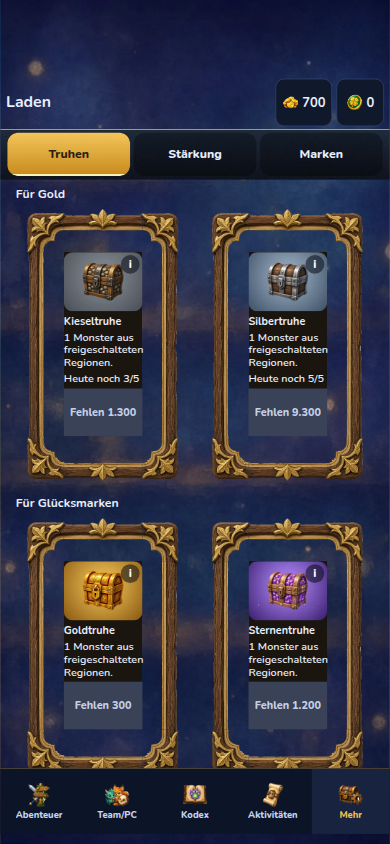
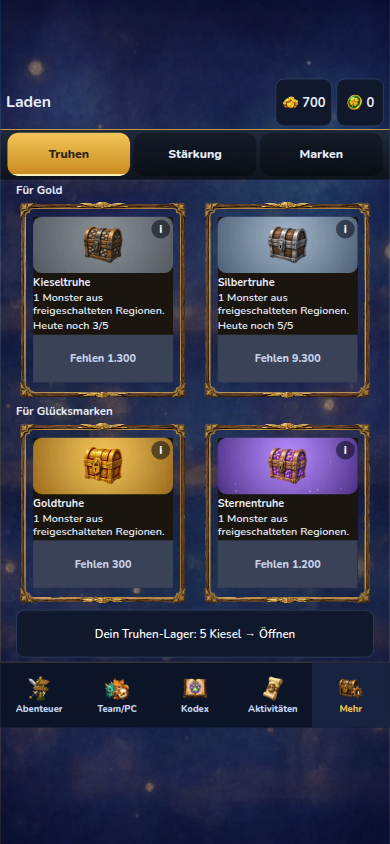
Laden: Kartenrahmen auf 35 Prozent der Slice-Ränder zeichnen.
Bild, Text und Kaufknopf nutzen etwa 81 Prozent der Kartenbreite, und die vier Truhen bleiben auf 390×844 ohne Scrollen sichtbar.

diff --git a/src/adventure/adventure.css b/src/adventure/adventure.css
@@ -874,19 +874,20 @@ img.is-shiny { filter: drop-shadow(0 0 10px #f0c14a); }
   font-weight: 800;
 }
 .shop-tabs button.on { background: var(--tab-on) center / 100% 100% no-repeat; color: #2a2110; }
-.shop-scroll { flex: 1 1 auto; min-height: 0; overflow: auto; padding: 0 44px 16px; }
-.shop-group { margin: 16px 0 8px; font-size: 34px; }
+.shop-scroll { flex: 1 1 auto; min-height: 0; overflow: auto; padding: 0 44px 12px; }
+.shop-group { margin: 8px 0 6px; font-size: 32px; }
 .shop-grid { display: grid; grid-template-columns: 480px 480px; gap: 32px; justify-content: center; align-items: start; }
 .shop-card {
   box-sizing: border-box;
   width: 480px;
   display: flex;
   flex-direction: column;
-  gap: 8px;
+  gap: 6px;
   border-style: solid;
-  border-width: 130px 129px 147px 133px;
+  /* 35% of the 133/130/129/147 slice so the interior keeps about 81% of the card. */
+  border-width: 46px 45px 51px 47px;
   border-image-slice: 130 129 147 133;
-  border-image-width: 130px 129px 147px 133px;
+  border-image-width: 1;
   border-image-repeat: stretch;
   background: #1a160f;
   background-clip: padding-box;
@@ -894,7 +895,8 @@ img.is-shiny { filter: drop-shadow(0 0 10px #f0c14a); }
 .shop-art {
   position: relative;
   width: 100%;
-  aspect-ratio: 480 / 360;
+  height: 156px;
+  flex: 0 0 auto;
   display: flex;
   align-items: center;
   justify-content: center;
@@ -940,7 +942,7 @@ img.is-shiny { filter: drop-shadow(0 0 10px #f0c14a); }
 .shop-buy.can { background: #f0c14a; color: #2a2110; }
 .shop-buy.blocked { background: #3a4258; color: #c5d0e6; }
 .shop-buy.shop-shake { animation: shop-shake 280ms linear; }
-.shop-stock { width: 100%; margin-top: 16px; background: #10182c; color: #fff; border: 2px solid #31456f; border-radius: 24px; font-size: 34px; }
+.shop-stock { width: 100%; margin-top: 10px; background: #10182c; color: #fff; border: 2px solid #31456f; border-radius: 24px; font-size: 32px; }
 .shop-price { display: flex; align-items: center; gap: 12px; font-size: 44px; font-weight: 800; }
 .shop-sheet img.hero { width: 220px; height: 220px; object-fit: contain; align-self: center; flex: 0 0 auto; }
 .shop-confirm { overflow: auto; max-height: 92%; }

diff --git a/src/adventure/shopOffer.test.ts b/src/adventure/shopOffer.test.ts
@@ -74,6 +74,7 @@ describe('shop offers', () => {
     const css = readFileSync(new URL('./adventure.css', import.meta.url), 'utf8')
     expect(css).toContain('grid-template-columns: 480px 480px')
     expect(css).toContain('border-image-slice: 130 129 147 133')
+    expect(css).toContain('border-width: 46px 45px 51px 47px')
     expect(css).toContain('min-height: 132px')
     expect(shopOffers(save, now).find((row) => row.id === 'crystal-s')?.pict).toBe(60)
     expect(shopOffers(save, now).find((row) => row.id === 'crystal-m')?.pict).toBe(72)
